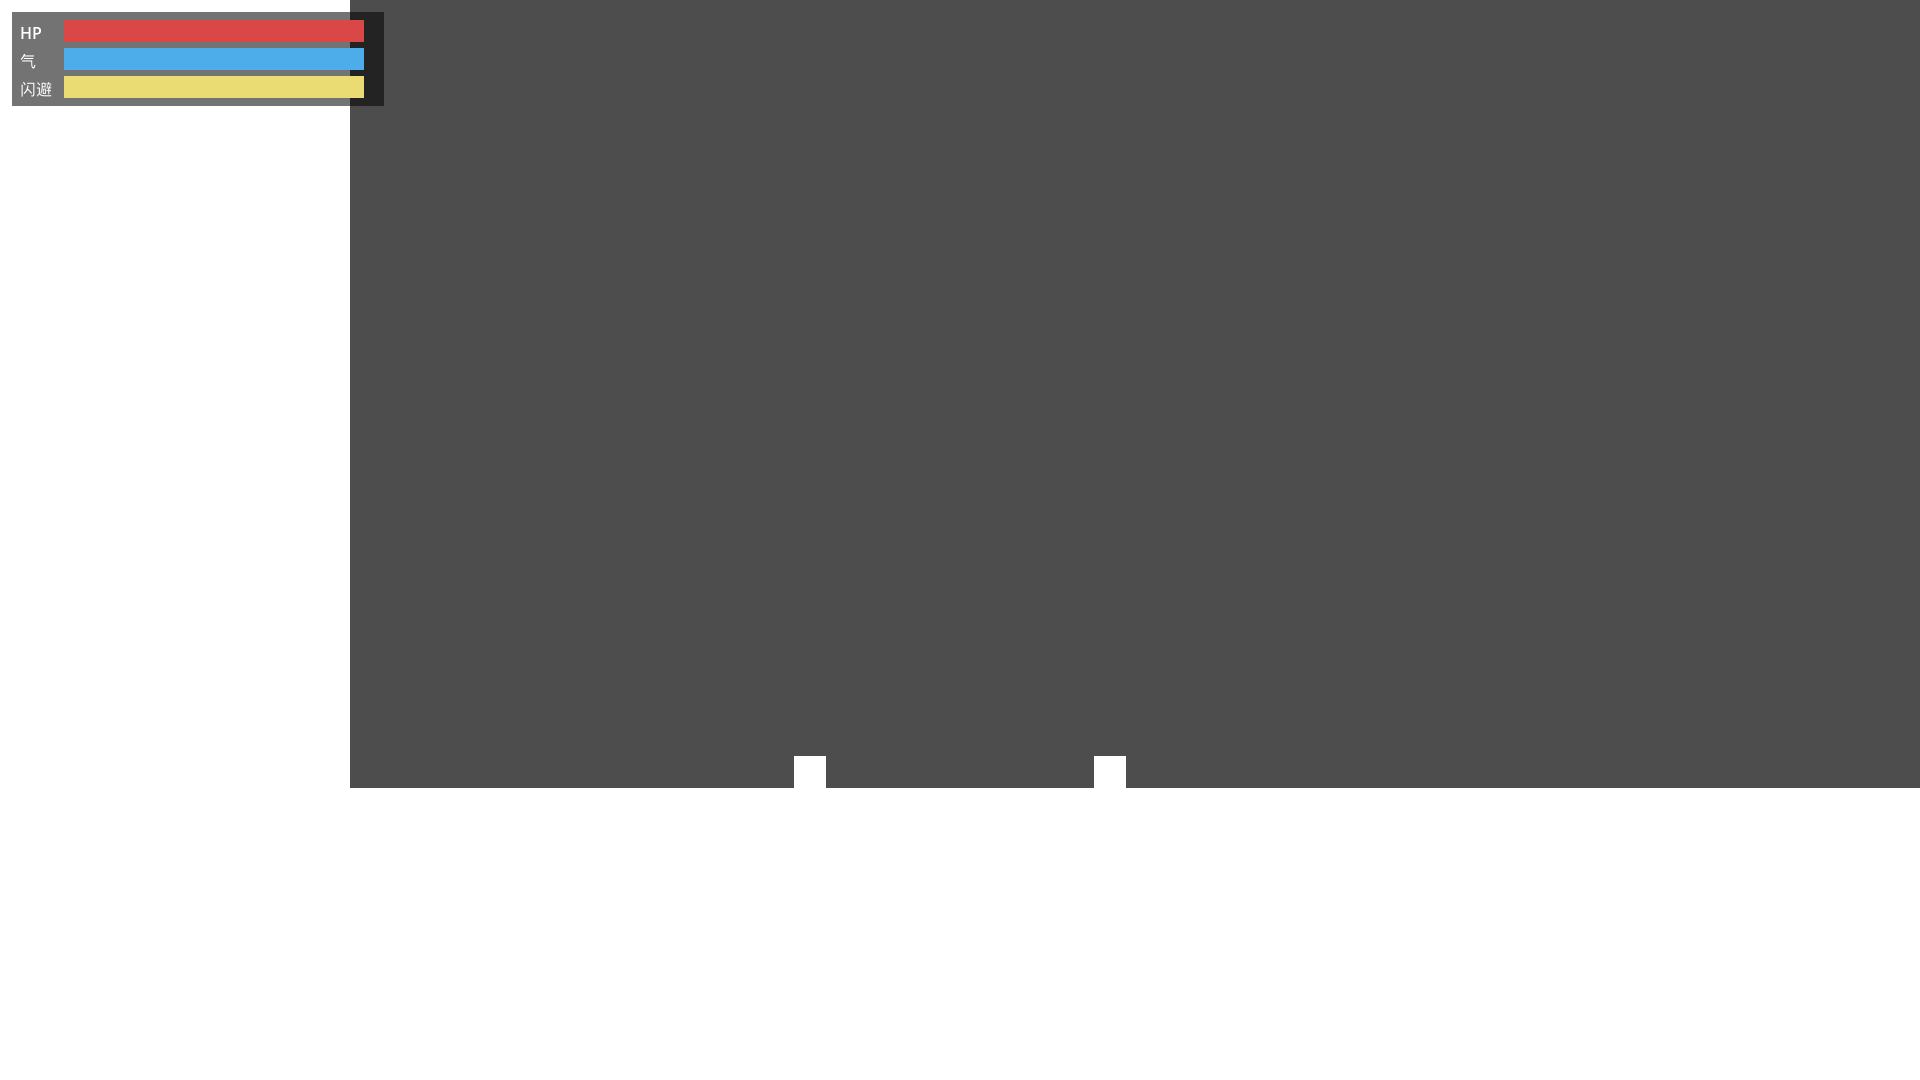
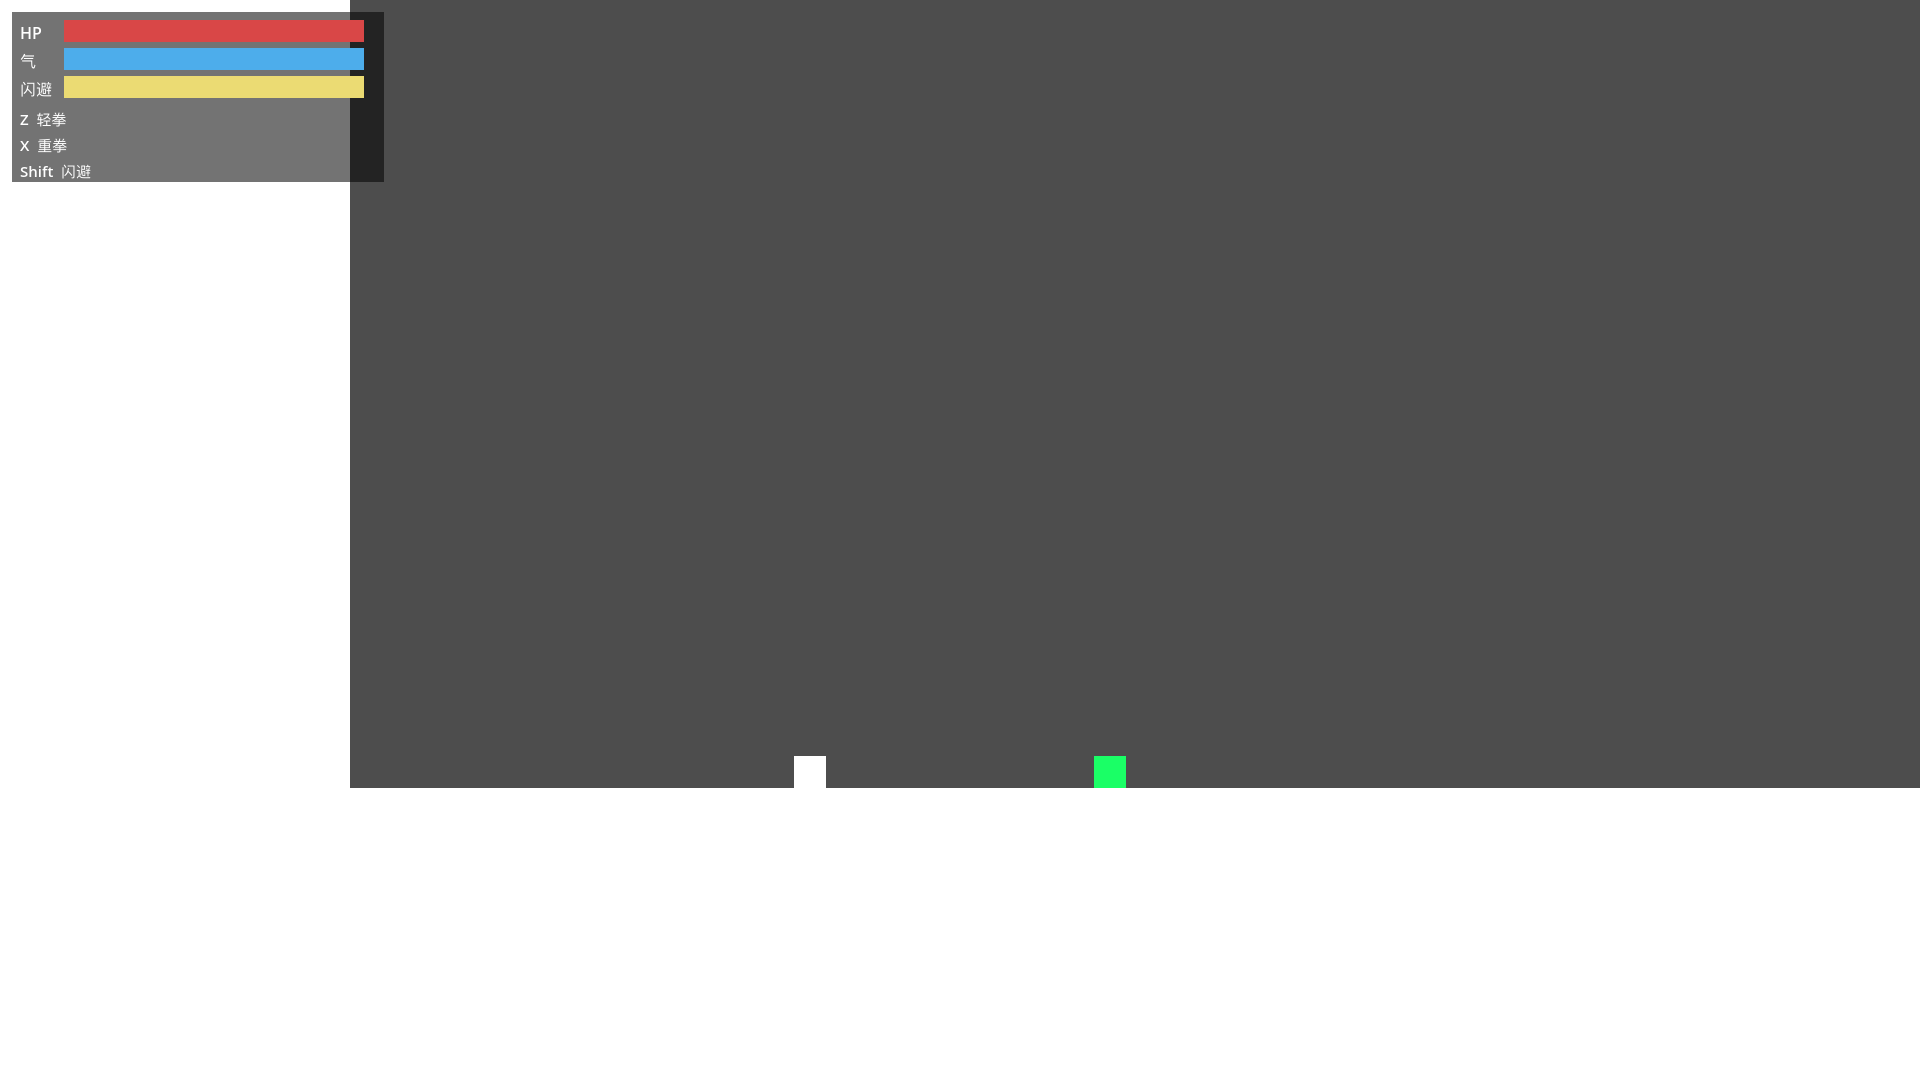
feat(M0/1A-6): 脚键失效 + 招式资源统一命名 + HUD 操作说明
- 拳/脚区分暂时失效：InputManager 不再采样 A/S（动作保留在 Input Map，将来加回即可）
- 命名统一：test_light.tres → test_light_punch.tres（moveName 同步）、
  test_heavy.tres → test_heavy_punch.tres；引用点（CombatHandler.tscn / tests）同步
- HUD：面板新增操作说明 Z 轻拳 / X 重拳 / Shift 闪避
- 修复 uid 缓存事故：autoload 从 *uid:// 改为 *res:// 路径引用
  （重命名 .tres 后旧 uid 缓存指向不存在路径，清缓存导致 autoload 解析成 "."，
   InputManager.Instance=null，引发 TryDodgeInterrupt NRE；路径引用不依赖缓存）
- 断言 4/4 通过（日志中的招式名已变为 test_light_punch / test_heavy_punch）

Changed region(s): [[0.0, 0.0917, 0.2188, 0.1833], [0.5625, 0.7028, 0.5938, 0.7333]]

diff --git a/core/InputManager.cs b/core/InputManager.cs
@@ -38,8 +38,10 @@ public partial class InputManager : Node
 		("right", InputButtons.Right),
 		("light_punch", InputButtons.LP),
 		("heavy_punch", InputButtons.HP),
-		("light_kick", InputButtons.LK),
-		("heavy_kick", InputButtons.HK),
+		// 拳/脚区分暂缓（2026-11-04）：脚键（A / S）暂时失效，不再采样。
+		// Input Map 里的动作保留着，将来启用拳脚区分时把下面两行加回来即可。
+		// ("light_kick", InputButtons.LK),
+		// ("heavy_kick", InputButtons.HK),
 		("jump", InputButtons.Jump),
 		("dodge", InputButtons.Dodge),
 		("block", InputButtons.Block),

diff --git a/tests/TestRunner.cs b/tests/TestRunner.cs
@@ -18,7 +18,7 @@ using System.Threading.Tasks;
 public partial class TestRunner : Node
 {
     private const string FixturePath = "res://tests/fixtures/combat_fixture.tscn";
-    private const string JabPath = "res://resources/move/test_light.tres";
+    private const string JabPath = "res://resources/move/test_light_punch.tres";
 
     private int _passed;
     private int _failed;

diff --git a/doc/stages/M0.md b/doc/stages/M0.md
@@ -127,6 +127,21 @@
 | 3 | 闪避穿过敌人 | 敌人身体移到物理层 6 `enemy_body`（值 32）；玩家 mask = 33；`DodgeHandler.Enter/Exit` 临时增删该层 |
 | 4 | HUD 闪避冷却 | 三条色条 + 标签（HP 红 / 气 蓝 / 闪避 黄），闪避条满 = 可用；深色底板保证可读 |
 
+### 第二轮追加（2026-11-04，1A-6）
+
+
+| # | 改动 | 实现 |
+|---|------|------|
+| 1 | 拳/脚区分**暂时失效** | `InputManager.ActionBindings` 移除脚键（A/S）采样；Input Map 动作保留，将来加回即可 |
+| 2 | 命名统一 | `test_light.tres` → `test_light_punch.tres`、`test_heavy.tres` → `test_heavy_punch.tres`；`moveName` 同步改为 `test_light_punch` / `test_heavy_punch` |
+| 3 | HUD 操作说明 | 面板内新增三行：`Z 轻拳` / `X 重拳` / `Shift 闪避` |
+
+> **事故记录（uid 缓存）**：重命名 `.tres` 后，`.godot/uid_cache.bin` 仍指向旧路径，导致场景按 uid 解析失败；
+> 清掉缓存后，**autoload 的 `*uid://...` 引用**因为缓存缺失而解析成 `.`，`InputManager.Instance` 变 null，
+> 引发 `TryDodgeInterrupt` 的 NRE 连锁（测试 2/4 失败）。
+> **修复：** 把 `[autoload]` 改成 `*res://core/InputManager.cs` 这样的**路径引用**（不依赖 uid 缓存），
+> 缓存由引擎在下次加载时自动重建。教训：**autoload 不要用 uid**。
+
 **截图**：`doc/images/2026-11-04-hud.png`（三条 HUD + 标签）
 
 > 注意：这一条追加使 M0 从"纯工程收口"变成"工程收口 + 操作层修正"。它**不碰数值与解围**，M1 的范围不变。

diff --git a/README.md b/README.md
@@ -29,11 +29,12 @@ godot --path .                    # 或用 Godot 编辑器打开项目后 F5
 |----|------|------|
 | ← → | 移动 | 只有左右移动 |
 | ↑ ↓ | **攻击方向**，不参与移动 | 设计决策，见 GAME_DESIGN §3.2 |
-| Z（A 同效） | **轻攻击 jab**（快、低伤、可闪避取消） | 2026-11-04 起轻/重由按键决定 |
-| X（S 同效） | **重攻击 heavy**（慢、高伤、**不可闪避取消**，挥空会被反斩） | |
+| Z | **轻拳（jab）**（快、低伤、可闪避取消） | 2026-11-04 起轻/重由按键决定 |
+| X | **重拳（heavy）**（慢、高伤、**不可闪避取消**，挥空会被反斩） | |
 | 空格 | 跳跃 | 独立键 |
 | Shift | 闪避（全程无敌 + 冷却，**可穿过敌人**） | |
 | C | 格挡 | 已绑定、**M2 实现** |
+| A / S | — | 脚键**暂时失效**（拳/脚区分押后） |
 
 > 攻击判定框的朝向以**出招瞬间按下的水平方向**为准（2026-11-04 修复）；没有水平方向时沿用当前朝向。
 

diff --git a/doc/BACKLOG.md b/doc/BACKLOG.md
@@ -32,6 +32,7 @@
 |---|------|------|
 | 11 | HUD 两条灰条无颜色无标签；缺闪避 CD、缺敌人血条 | M2（可读性硬需求） |
 | 12 | 威胁框与敌人本体同为黄色，辨识度互相削弱 | M2 |
+| 12.5 | **敌我 telegraph 色板重做**（8 色单通道超载；建议拆成"色相=相位 / 描边=免疫"双通道） | M1（做解围时一起） |
 | 13 | 敌人悬空约 21px（无重力） | 随 #7 一起 |
 | 14 | 音效（命中/闪避/识破/踉跄） | M7 |
 | 15 | 受伤/顿帧的镜头语言（震屏曲线、hitstop 分级） | M7 |
